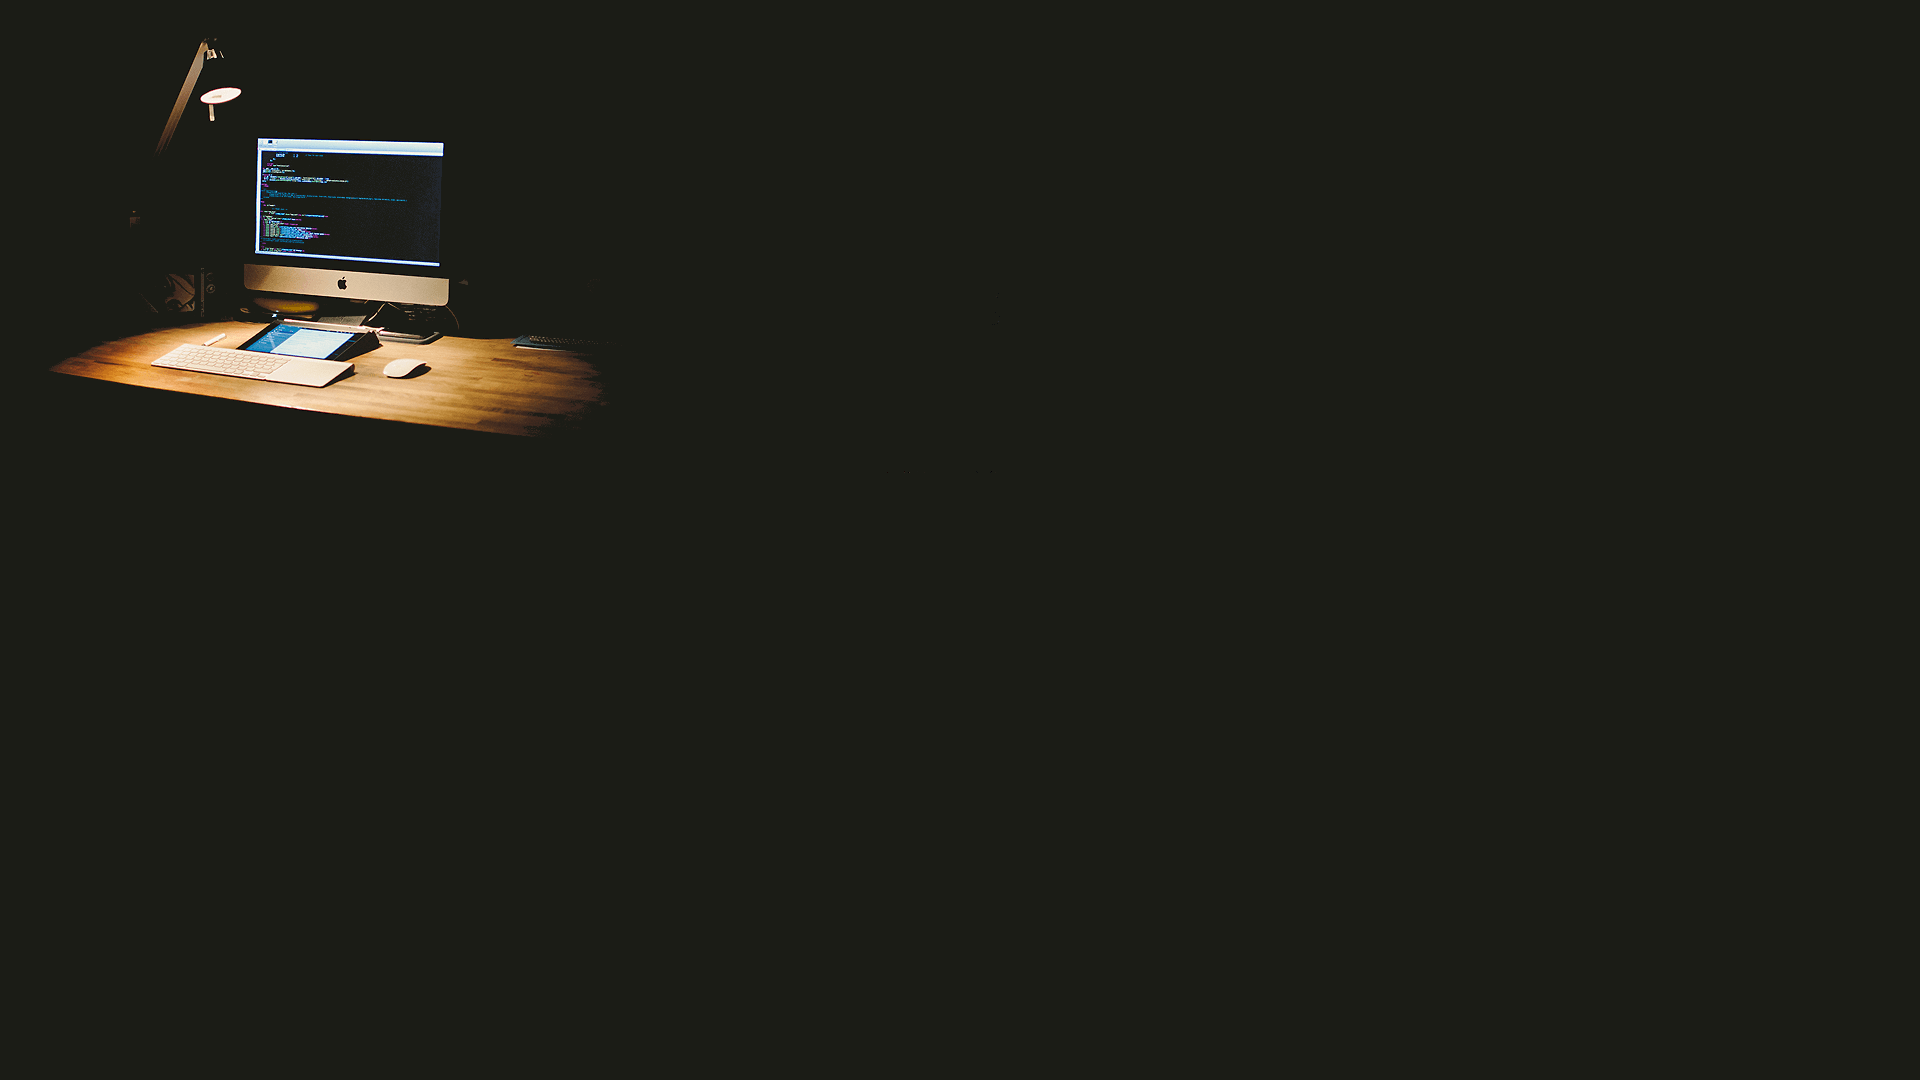
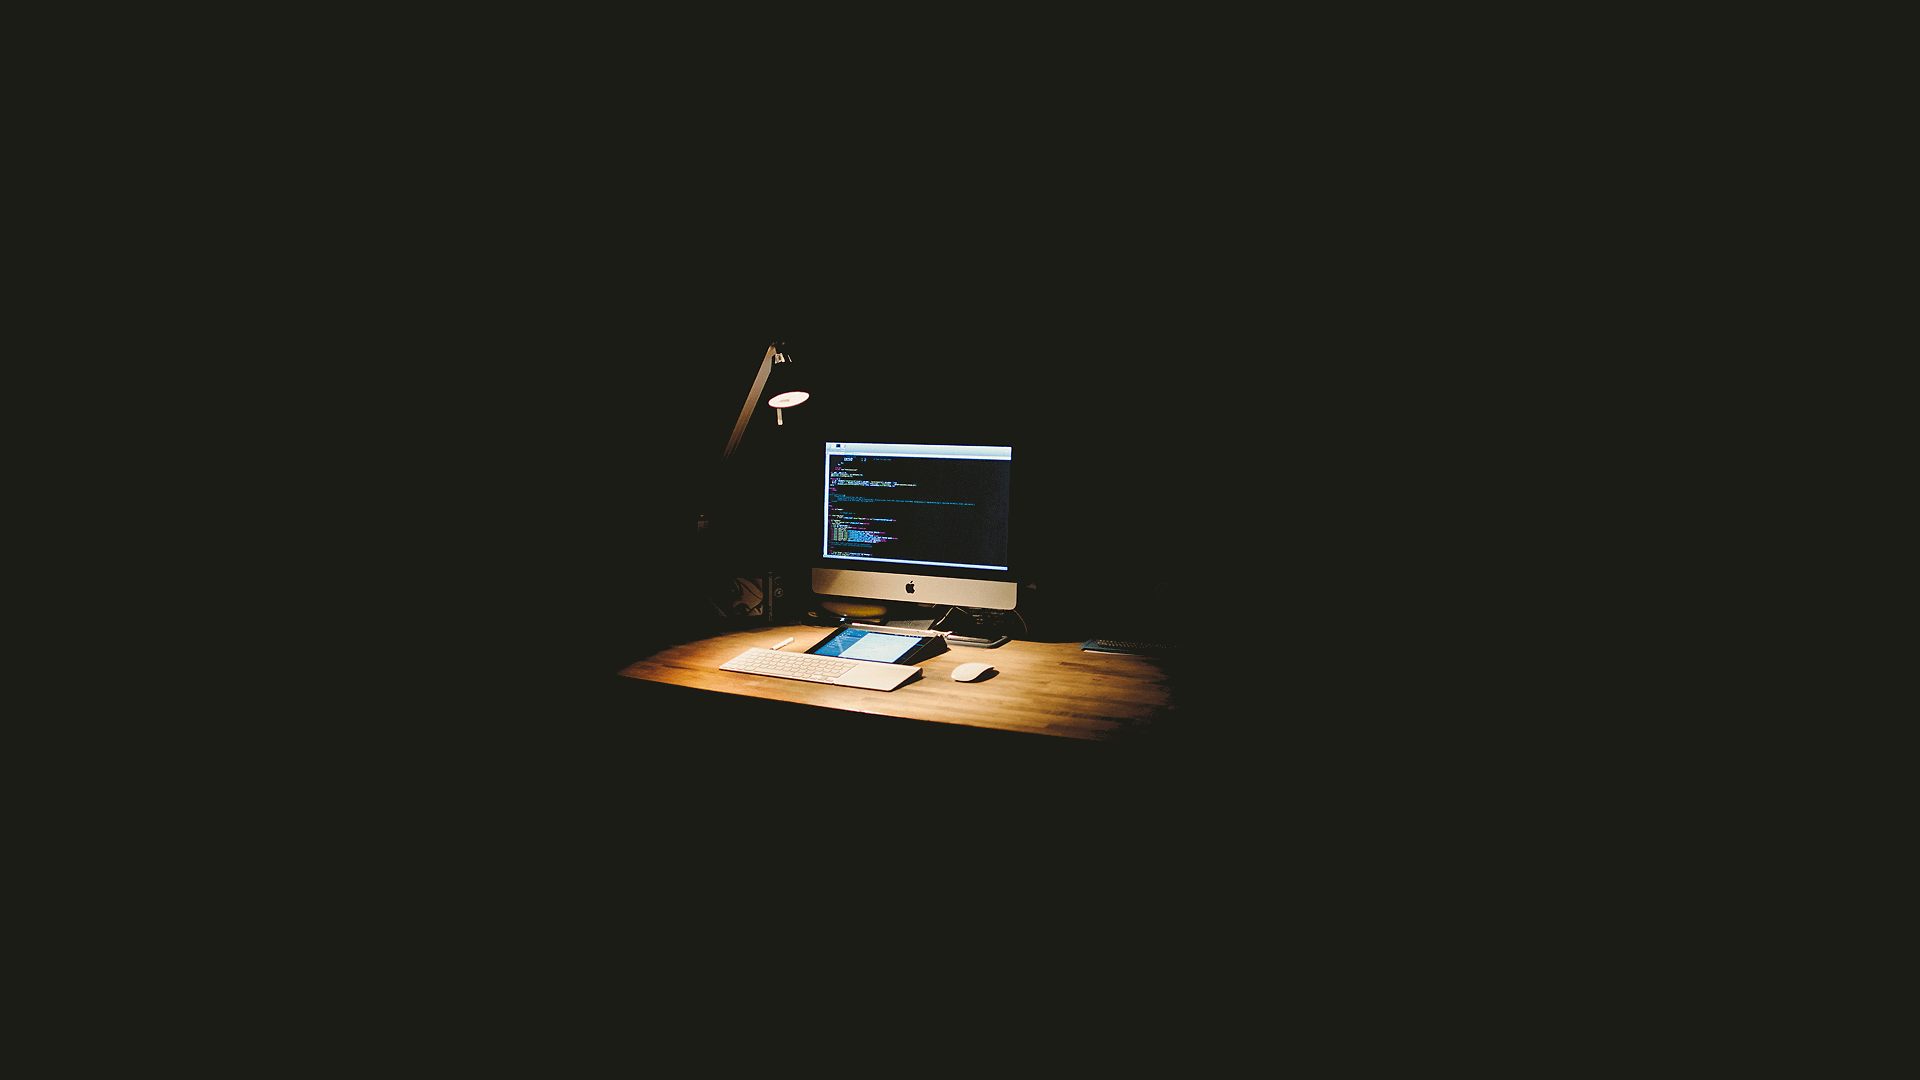
Centered homepage carousel images

Changed region(s): [[0.3125, 0.3056, 0.625, 0.7028], [0.0312, 0.1222, 0.3125, 0.4278], [0.0625, 0.0306, 0.125, 0.1222]]

diff --git a/public/script.js b/public/script.js
@@ -151,6 +151,12 @@ var carousel = function(data) {
 	}
 	loadImage = function(id) {
 		$("img#introductionImage").attr("src", "img/carousel/" + id + ".png");
+		$("img#introductionImage").load(function() {
+			$(this).css({
+				top: ($("div#introduction").width()-$(this).width())/2,
+				left: ($("div#introduction").height()-$(this).height())/2
+			});
+		});
 		$("div#introductionText > h1").text(data[id].title);
 		$("div#introductionText > p").text(data[id].description);
 		$("div.carouselButton").removeClass("currentImage");

diff --git a/public/style.css b/public/style.css
@@ -171,6 +171,9 @@ div.ripple {
 div#container {
 	padding: 40px;
 }
+img#introductionImage {
+	position: absolute;
+}
 div#introduction {
 	position: relative;
 	width: calc(100% + 80px);
